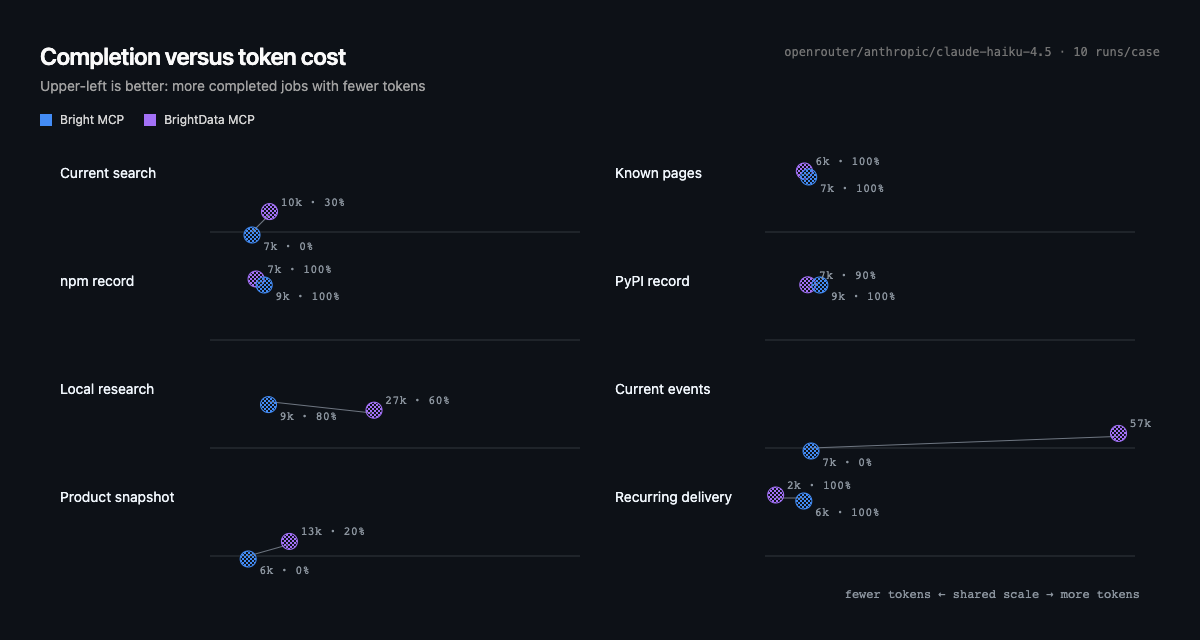
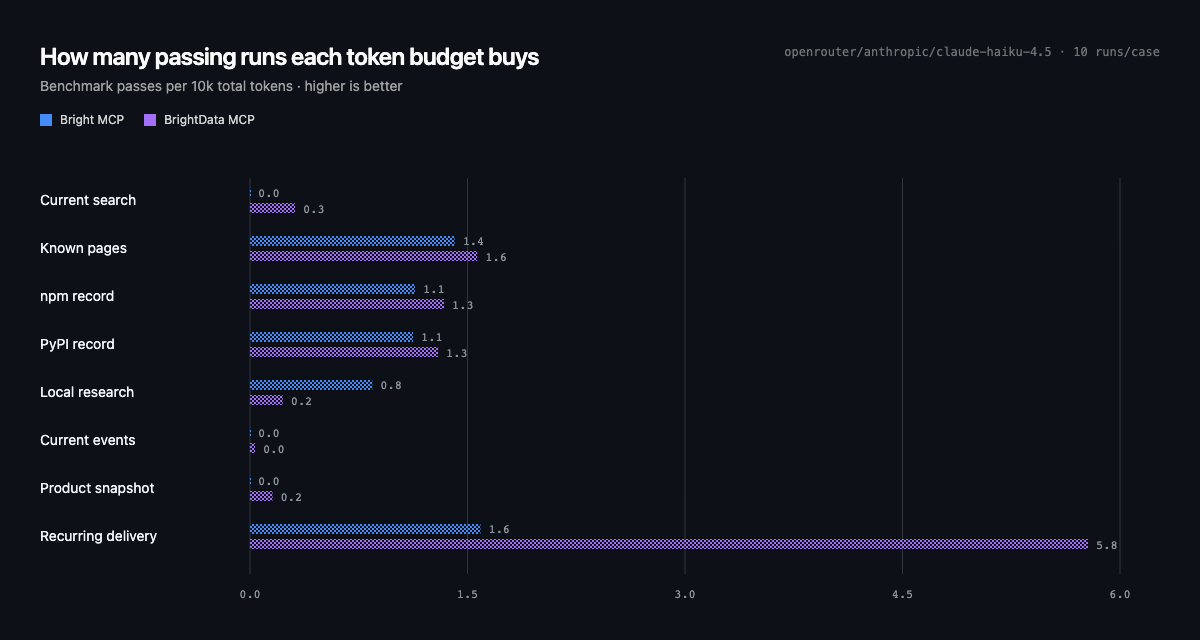
Add an explainable capability radar
Problem: the token scatter still required two-dimensional decoding and the benchmark lacked a compact capability overview.\nWhy: explainability needs exact comparable units first and any overview must avoid mixing arbitrary normalized metrics.\nChange: express efficiency as passing runs per ten thousand tokens in paired bars, and add a radar chart whose eight workflow spokes all share the same zero-to-one-hundred completion scale.\nNot changed: benchmark outcomes, grading, latency and tool-call charts, and site files remain unchanged.

diff --git a/scripts/benchmark-chart.tsx b/scripts/benchmark-chart.tsx
@@ -42,8 +42,16 @@ function BenchmarkCharts() {
       <Chart id="benchmark-completion" title="Where each MCP completes the job" subtitle="Tool-use pass rate by workflow" meta={meta(model, runsPerCase)}>
         <PairedBars tasks={tasks} value={(datum) => datum.passRate * 100} domain={100} format={(value) => `${Math.round(value)}%`} />
       </Chart>
-      <Chart id="benchmark-efficiency" title="Completion versus token cost" subtitle="Upper-left is better: more completed jobs with fewer tokens" meta={meta(model, runsPerCase)}>
-        <Efficiency tasks={tasks} />
+      <Chart id="benchmark-radar" title="Capability fingerprint across workflows" subtitle="Tool-use pass rate · every spoke uses the same 0–100% scale" meta={meta(model, runsPerCase)}>
+        <Radar tasks={tasks} />
+      </Chart>
+      <Chart id="benchmark-efficiency" title="How many passing runs each token budget buys" subtitle="Benchmark passes per 10k total tokens · higher is better" meta={meta(model, runsPerCase)}>
+        <PairedBars
+          tasks={tasks}
+          value={(datum) => datum.averageTokens ? datum.passRate * 10_000 / datum.averageTokens : 0}
+          domain={efficiencyDomain(tasks)}
+          format={(value) => value.toFixed(1)}
+        />
       </Chart>
       <Chart id="benchmark-latency" title="How often each MCP finishes quickly" subtitle="Cumulative share of all runs by end-to-end latency" meta={`${latency.bright.length + latency.brightData.length} live runs`}>
         <Latency values={latency} />
@@ -102,29 +110,39 @@ function PairedBars({ tasks, value, domain, format }: { tasks: TaskDatum[]; valu
   );
 }
 
-function Efficiency({ tasks }: { tasks: TaskDatum[] }) {
-  const maxTokens = Math.ceil(Math.max(...tasks.flatMap(({ bright, brightData }) => [bright.averageTokens, brightData.averageTokens])) / 10_000) * 10_000;
+function Radar({ tasks }: { tasks: TaskDatum[] }) {
+  const center = { x: 560, y: 225 };
+  const radius = 155;
+  const point = (index: number, value: number, extra = 0) => {
+    const angle = -Math.PI / 2 + (index / tasks.length) * Math.PI * 2;
+    const distance = radius * value + extra;
+    return { x: center.x + Math.cos(angle) * distance, y: center.y + Math.sin(angle) * distance };
+  };
+  const points = (server: "bright" | "brightData") => tasks.map((task, index) => {
+    const position = point(index, task[server].passRate);
+    return `${position.x},${position.y}`;
+  }).join(" ");
   return (
     <svg viewBox="0 0 1120 460" role="img" className="h-full w-full">
       <Patterns />
+      {[0.25, 0.5, 0.75, 1].map((level) => <polygon key={level} points={tasks.map((_, index) => { const p = point(index, level); return `${p.x},${p.y}`; }).join(" ")} fill="none" stroke="#30363d" />)}
       {tasks.map((task, index) => {
-        const column = index % 2;
-        const row = Math.floor(index / 2);
-        const left = 20 + column * 555;
-        const top = row * 108;
-        const x = (tokens: number) => left + 150 + (tokens / maxTokens) * 370;
-        const y = (rate: number) => top + 88 - rate * 0.58;
+        const edge = point(index, 1);
+        const label = point(index, 1, 38);
+        const anchor = label.x < center.x - 20 ? "end" : label.x > center.x + 20 ? "start" : "middle";
         return <g key={task.label}>
-          <text x={left} y={top + 34} className="label">{task.label}</text>
-          <line x1={left + 150} x2={left + 520} y1={top + 88} y2={top + 88} stroke="#30363d" />
-          <line x1={x(task.bright.averageTokens)} y1={y(task.bright.passRate * 100)} x2={x(task.brightData.averageTokens)} y2={y(task.brightData.passRate * 100)} stroke="#6e7681" />
-          <circle cx={x(task.brightData.averageTokens)} cy={y(task.brightData.passRate * 100) - 3} r="8" fill="url(#purple-dither)" stroke={colors.brightData} />
-          <circle cx={x(task.bright.averageTokens)} cy={y(task.bright.passRate * 100) + 3} r="8" fill="url(#blue-dither)" stroke={colors.bright} />
-          <text x={x(task.brightData.averageTokens) + 11} y={y(task.brightData.passRate * 100) - 9} className="value">{Math.round(task.brightData.averageTokens / 1000)}k · {Math.round(task.brightData.passRate * 100)}%</text>
-          <text x={x(task.bright.averageTokens) + 11} y={y(task.bright.passRate * 100) + 18} className="value">{Math.round(task.bright.averageTokens / 1000)}k · {Math.round(task.bright.passRate * 100)}%</text>
+          <line x1={center.x} y1={center.y} x2={edge.x} y2={edge.y} stroke="#30363d" />
+          <text x={label.x} y={label.y + 5} textAnchor={anchor} className="label">{task.label}</text>
         </g>;
       })}
-      <text x="1100" y="454" textAnchor="end" className="axis-title">fewer tokens ← shared scale → more tokens</text>
+      <polygon points={points("brightData")} fill="url(#purple-dither)" fillOpacity="0.35" stroke={colors.brightData} strokeWidth="3" />
+      <polygon points={points("bright")} fill="url(#blue-dither)" fillOpacity="0.35" stroke={colors.bright} strokeWidth="3" />
+      {(["brightData", "bright"] as const).flatMap((server) => tasks.map((task, index) => {
+        const p = point(index, task[server].passRate);
+        return <circle key={`${server}-${task.label}`} cx={p.x} cy={p.y} r="5" fill={`url(#${server === "bright" ? "blue" : "purple"}-dither)`} stroke={colors[server]} />;
+      }))}
+      <text x={center.x + 8} y={center.y - radius * 0.5} className="axis">50%</text>
+      <text x={center.x + 8} y={center.y - radius} className="axis">100%</text>
     </svg>
   );
 }
@@ -153,6 +171,11 @@ function Patterns() {
 
 function meta(model: string, runs: number) {
   return `${model} · ${runs} runs/case`;
+}
+
+function efficiencyDomain(tasks: TaskDatum[]) {
+  const maximum = Math.max(...tasks.flatMap(({ bright, brightData }) => [bright, brightData]).map((datum) => datum.averageTokens ? datum.passRate * 10_000 / datum.averageTokens : 0));
+  return Math.ceil(maximum * 2) / 2;
 }
 
 const root = document.getElementById("root");

diff --git a/scripts/render-benchmark-chart.ts b/scripts/render-benchmark-chart.ts
@@ -17,7 +17,7 @@ const tasks = workflowCases.map(({ id, shortLabel }) => ({
 const complete = workflowCases.every(({ id }) => (["bright", "upstream"] as const).every((server) => report.results.filter((result) => result.caseId === id && result.server === server).length === report.runsPerCase));
 if (mode !== "--preview" && !complete) process.exit(0);
 
-const charts = ["completion", "efficiency", "latency", "complexity"] as const;
+const charts = ["completion", "radar", "efficiency", "latency", "complexity"] as const;
 const temporaryDirectory = await mkdtemp(join(tmpdir(), "bright-benchmark-"));
 try {
   const assets = await buildAppAssets({
@@ -40,7 +40,7 @@ try {
   const html = `<!doctype html><html><head><meta charset="utf-8"><style>${css}</style></head><body><div id="root"></div><script>window.benchmark=${safeJson(data)}</script><script type="module">${javascript.replaceAll("</script", "<\\/script")}</script></body></html>`;
   const browser = await chromium.launch({ executablePath: await browserPath(), headless: true });
   try {
-    const page = await browser.newPage({ viewport: { width: 1200, height: 2560 }, deviceScaleFactor: 1 });
+    const page = await browser.newPage({ viewport: { width: 1200, height: 3200 }, deviceScaleFactor: 1 });
     await page.setContent(html, { waitUntil: "load" });
     await page.waitForSelector("body[data-ready=true]");
     for (const chart of charts) {

diff --git a/evals/src/report.ts b/evals/src/report.ts
@@ -26,7 +26,8 @@ const publishable = complete && report.runsPerCase >= 10;
 const rootBlock = publishable
   ? [
       "![Paired horizontal bars comparing MCP completion by workflow](./assets/benchmark-completion.png)",
-      "![Scatter plot comparing completion and token cost](./assets/benchmark-efficiency.png)",
+      "![Radar chart comparing MCP capability fingerprints across workflows](./assets/benchmark-radar.png)",
+      "![Paired horizontal bars comparing benchmark passes per token budget](./assets/benchmark-efficiency.png)",
       "![Cumulative latency distribution across all benchmark runs](./assets/benchmark-latency.png)",
       "![Paired horizontal bars comparing average tool calls by workflow](./assets/benchmark-complexity.png)",
       "",

diff --git a/README.md b/README.md
@@ -37,7 +37,8 @@ hosted authorization.
 
 <!-- benchmark:start -->
 ![Paired horizontal bars comparing MCP completion by workflow](./assets/benchmark-completion.png)
-![Scatter plot comparing completion and token cost](./assets/benchmark-efficiency.png)
+![Radar chart comparing MCP capability fingerprints across workflows](./assets/benchmark-radar.png)
+![Paired horizontal bars comparing benchmark passes per token budget](./assets/benchmark-efficiency.png)
 ![Cumulative latency distribution across all benchmark runs](./assets/benchmark-latency.png)
 ![Paired horizontal bars comparing average tool calls by workflow](./assets/benchmark-complexity.png)
 